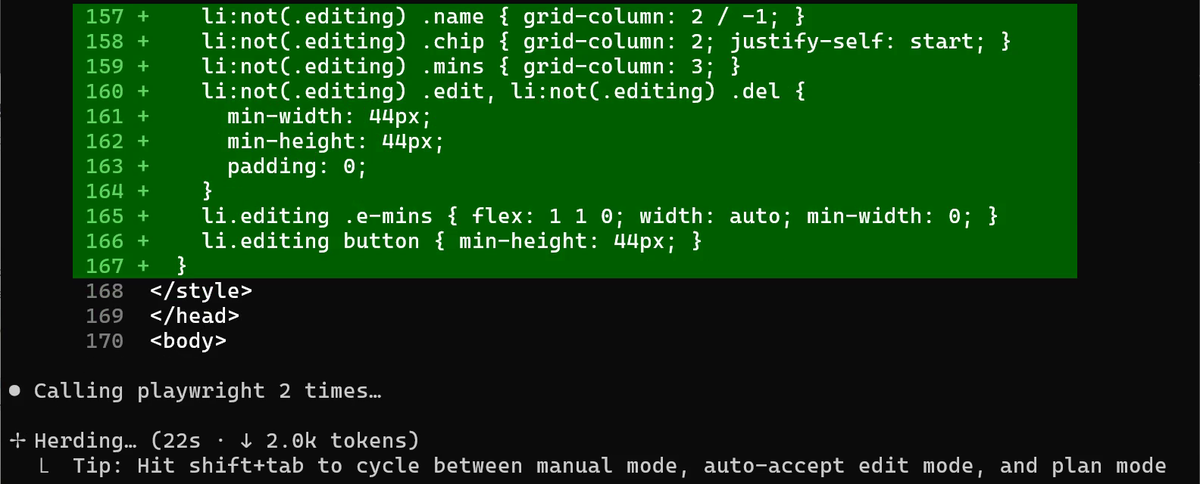
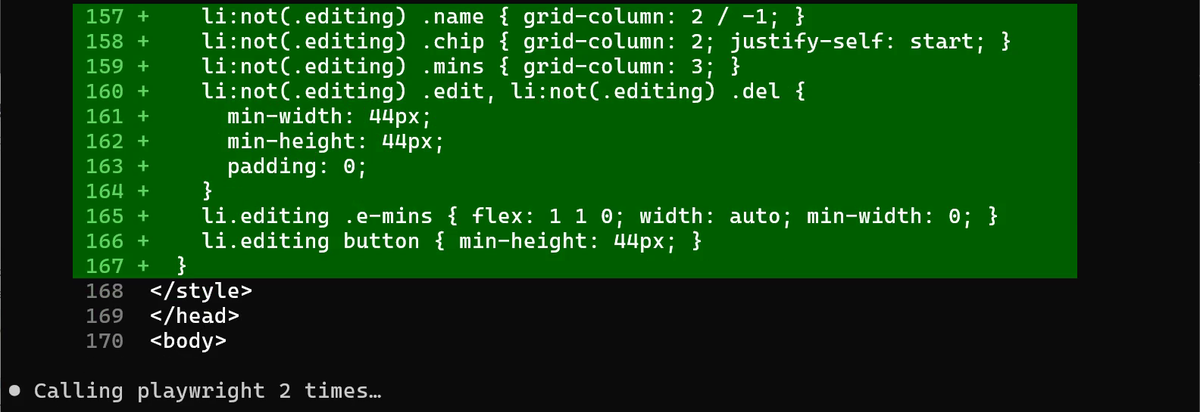
Claude Code chapter 10: episode 10 video, tailor picture, blurred config paths

Changed region(s): [[0.0, 0.0, 0.925, 0.8447], [0.0, 0.8738, 0.9867, 0.9903]]

diff --git a/series/claude-code/chapter10.html b/series/claude-code/chapter10.html
@@ -48,26 +48,38 @@
   </nav>
 
   <main>
+  <section id="video">
+    <div class="video"><iframe src="https://www.youtube-nocookie.com/embed/M-q4KZSGB_w?rel=0" title="Episode 10 · How does Claude Code see my app?"
+      allow="accelerometer; encrypted-media; gyroscope; picture-in-picture; web-share" allowfullscreen loading="lazy"></iframe></div>
+    <p class="video-cap">Prefer to watch? This chapter goes with Episode 10 (5:41). <a href="https://www.youtube.com/watch?v=M-q4KZSGB_w" rel="noopener">Open it on YouTube</a>.</p>
+  </section>
+
   <section id="wall" data-rail="The wall">
     <div class="prereq">
-      <div class="pq"><b>Goes with Episode 10</b>"How does Claude Code see my app?". The video is being made. This page teaches the same steps, at your own pace.</div><div class="pq"><b>In a hurry?</b><a href="#quickref">Jump to the quick reference</a>: every command and key in this chapter, what it does, and when to use it.</div><div class="pq"><b>Every prompt, ready to copy</b><a href="prompts.html#ch10">This chapter's prompts and commands</a>, each with a Copy button. Type them yourself first; copy if you are stuck or behind.</div>
-      <div class="pq"><b>Where you are</b>DevPulse from chapters 1 to 9, with the server running in your second tab. Playwright runs through <code>npx</code>, so you need Node.js.</div>
+      <div class="pq"><b>Goes with Episode 10</b><a href="https://www.youtube.com/watch?v=M-q4KZSGB_w" target="_blank" rel="noopener">"How does Claude Code see my app?"</a>. Watch it just above, or read this page at your own pace. It teaches the same steps.</div><div class="pq"><b>In a hurry?</b><a href="#quickref">Jump to the quick reference</a>: every command and key in this chapter, what it does, and when to use it.</div><div class="pq"><b>Every prompt, ready to copy</b><a href="prompts.html#ch10">This chapter's prompts and commands</a>, each with a Copy button. Type them yourself first; copy if you are stuck or behind.</div>
+      <div class="pq"><b>Where you are</b>DevPulse from chapters 1 to 9, with the server running in your second tab.</div>
+      <div class="pq"><b>Before you start</b>Node.js must be installed on your computer: Playwright's server runs with it. To check, run <code>node --version</code> in PowerShell or Terminal. If it is missing, <a href="https://nodejs.org/en/download" rel="noopener">download Node.js from its official site</a>.</div>
     </div>
     <div class="prose">
       <h2>Claude has never seen your page</h2>
       <p>Most people will open a page like DevPulse on a phone. Does it look right there?</p>
       <p>Claude wrote most of that page. But it only ever read the code. It has never opened the page, and it has never seen it 390 px wide.</p>
+      <p>Think of a tailor who stitches a shirt exactly to your measurements. Every number is right on paper, but only when you try it on do you see that one sleeve hangs too long. Claude has only had our measurements: the code. It has never had a fitting.</p>
     </div>
+    <figure class="cc-shot"><img src="img/chapter10/tailor.svg" alt="A hand-drawn shirt on a hanger with a measuring tape over its collar. One sleeve hangs far below the other, circled in mustard with the note: too long?" loading="lazy">
+      <figcaption>Right on paper is not the same as right on you. Only the fitting shows it.</figcaption></figure>
     <div class="cc-wall">
       <div class="lbl">The question for this chapter</div>
-      <p>How do you let Claude look at the running app, not just the code?</p>
+      <p>How does Claude Code see your app, the way you see it on a phone?</p>
     </div>
   </section>
 
   <section id="add" data-rail="Add a browser">
     <div class="prose">
       <h2>Give Claude a browser</h2>
-      <p>Claude Code talks to outside tools through <b>MCP servers</b>. MCP is an open standard: one server, many tools. Playwright's server gives Claude a real Chrome to drive.</p>
+      <p><b>Playwright</b> is a free tool that drives a real web browser the way a person would: it opens a page, clicks, resizes the window and takes screenshots. Developers use it to test their web apps.</p>
+      <p>Claude Code reaches tools like this through <b>MCP servers</b>. MCP is an open standard: one server, many tools. Playwright's server gives Claude that browser.</p>
+      <p>Nothing else to install beyond Node.js: Playwright's server downloads itself the first time it starts, and it opens the Chrome you already have.</p>
       <p>Add it from your terminal, not inside Claude.</p>
     </div>
     <div class="yousee"><b>Type this into the terminal, in projects\devpulse, one line at a time</b>claude mcp add playwright -- npx -y @playwright/mcp@latest
@@ -90,14 +102,18 @@ claude mcp list</div>
     </div>
     <div class="yousee"><b>Type this into Claude Code, as one line</b>Use the playwright tools to open http://127.0.0.1:8000, resize the window to 390 px wide, take a screenshot and tell me what looks wrong on a phone.</div>
     <figure class="cc-shot"><img src="img/chapter10/browser.png" alt="A Chrome window opened by Playwright on 127.0.0.1:8000/#today, the page narrowed to 390 px, with a grey bar: You are using an unsupported command-line flag." loading="lazy">
-      <figcaption>A new Chrome window opens by itself, the page narrowed to phone width. The grey warning bar about a command-line flag comes from Playwright. You can close it.</figcaption></figure>
+      <figcaption>A new Chrome window opens by itself, the page narrowed to phone width. In our recording it opened partly off the left edge of the screen, so only the right side of the page shows. The grey warning bar about a command-line flag comes from Playwright. You can close it.</figcaption></figure>
     <figure class="cc-shot"><img src="img/chapter10/findings.png" alt="The end of Claude's list: 4, edit and delete icons under 44 px and close together; 5, the Standup panel is a dense block; 6, a 40 px gap above the Standup card. Also a favicon 404. I haven't changed any code." loading="lazy">
-      <figcaption>The end of a list of 6 problems, found in 19 seconds. The first three, above this, were about the add form and the task titles. It changed nothing yet.</figcaption></figure>
+      <figcaption>The last three of Claude's 6 problems, found in 19 seconds: the edit and delete icons, the dense Standup panel and the gap. It changed nothing yet.</figcaption></figure>
+    <div class="prose">
+      <p>That was the fitting. These are things you notice by looking at the page, not by reading its code.</p>
+    </div>
   </section>
 
   <section id="fix" data-rail="Fix and check again">
     <div class="prose">
       <h2>Fix it, then look again</h2>
+      <p>Ask Claude to fix them with a <b>media query</b>: CSS rules that apply only on narrow screens. Then it should look again at 390 px.</p>
     </div>
     <div class="yousee"><b>Type this into Claude Code, as one line</b>Fix those in index.html with a narrow-screen media query, then check again at 390 px with the playwright tools.</div>
     <figure class="cc-shot"><img src="img/chapter10/fix.png" alt="The diff in index.html: rules inside the media query, edit and delete at min-width and min-height 44px. Below it: Calling playwright 2 times." loading="lazy">
@@ -119,8 +135,8 @@ claude mcp list</div>
       <p>Some servers are not programs on your computer. They live on the web. Anthropic runs one for the Claude Code docs. Exit Claude with <code>/exit</code> first.</p>
     </div>
     <div class="yousee"><b>Type this into the terminal</b>claude mcp add --transport http claude-code-docs https://code.claude.com/docs/mcp</div>
-    <figure class="cc-shot"><img src="img/chapter10/docsadd.png" alt="Added HTTP MCP server claude-code-docs with URL https://code.claude.com/docs/mcp to local config. File modified: .claude.json, project devpulse." loading="lazy">
-      <figcaption>An HTTP server: just a web address. Note the last words: <i>to local config</i>. (Our recording uses a separate demo profile, so the path is not the usual one.)</figcaption></figure>
+    <figure class="cc-shot"><img src="img/chapter10/docsadd.png" alt="Added HTTP MCP server claude-code-docs with URL https://code.claude.com/docs/mcp to local config." loading="lazy">
+      <figcaption>An HTTP server: just a web address. Note the last words: <i>to local config</i>.</figcaption></figure>
     <div class="prose">
       <p>Start <code>claude</code> again and ask it about that.</p>
     </div>
@@ -143,7 +159,7 @@ claude mcp list</div>
     <div class="prose">
       <h2>What a server costs</h2>
       <p>Every connected server adds its tool list to Claude's context. Playwright alone has 25 tools. Keep the servers you use, and remove the rest with <code>claude mcp remove name</code>.</p>
-      <p>These servers were built by others. What if DevPulse had its own tools for Claude? That is chapter 11.</p>
+      <p>These servers were built by others. But logging a task still means leaving the terminal and opening the app. In chapter 11, DevPulse gets tools of its own, so Claude can log our work for us.</p>
     </div>
   </section>
 
@@ -157,14 +173,15 @@ claude mcp list</div>
       <div class="lbl">Your homework</div>
       <h3>Let Claude look at a page of your own</h3>
       <p style="font-size:var(--fs-cap);color:var(--slate)"><b>The goal:</b> Claude checks a page by seeing it, not by reading it.</p>
-      <p style="font-size:var(--fs-cap);color:var(--slate);margin-top:8px"><b>The steps:</b> add Playwright to one of your own projects. Ask Claude: <i>Use the playwright tools to open … at 390 px and tell me what looks wrong.</i> Then ask it to fix one problem and check again.</p>
-      <p style="font-size:var(--fs-cap);color:var(--slate);margin-top:8px"><b>Guess first:</b> will Claude find more problems from the screenshot, or from reading the code?</p>
-      <p style="font-size:var(--fs-cap);color:var(--slate);margin-top:10px"><i>One question for you: which server would your team want in project scope?</i></p>
+      <p style="font-size:var(--fs-cap);color:var(--slate);margin-top:8px"><b>The steps:</b> add Playwright to one of your own projects. Ask Claude: <i>Use the playwright tools to open … at 390 px and tell me what looks wrong.</i></p>
+      <p style="font-size:var(--fs-cap);color:var(--slate);margin-top:8px"><b>Guess first:</b> before you send it, write down one problem you expect Claude to find. Did it find it?</p>
+      <p style="font-size:var(--fs-cap);color:var(--slate);margin-top:8px"><b>Then:</b> ask it to fix one problem and look again.</p>
+      <p style="font-size:var(--fs-cap);color:var(--slate);margin-top:10px"><i>One question for you: which outside tool would you most like Claude to use in your own work?</i></p>
     </div>
   </section>
 
   <section class="lwa-refs" id="refs"><div class="prose"><h2>References</h2><p>Where each command on this page comes from. Every screenshot is from our own recording on 29 Oct 2026, Claude Code 2.1.312.</p></div><ol><li><b>Anthropic</b> · <i>Connect Claude Code to tools via MCP</i> <span class="why">claude mcp add, list and get; stdio and HTTP servers; the local, project and user scopes; /mcp.</span> <a href="https://code.claude.com/docs/en/mcp" rel="noopener">https://code.claude.com/docs/en/mcp</a></li><li><b>Microsoft</b> · <i>Playwright MCP</i> <span class="why">The browser server we added: open a page, resize it, take a screenshot.</span> <a href="https://github.com/microsoft/playwright-mcp" rel="noopener">https://github.com/microsoft/playwright-mcp</a></li><li><b>Model Context Protocol</b> · <i>Introduction</i> <span class="why">What MCP is: one open way for an AI app to talk to tools and data.</span> <a href="https://modelcontextprotocol.io/introduction" rel="noopener">https://modelcontextprotocol.io/introduction</a></li><li><b>My own recording</b> · <i>29 Oct 2026, Windows 11</i> <span class="why">Claude found 6 phone problems in 19 seconds, fixed them in 32, and the docs server named the scope we used.</span></li></ol></section>
-  <section class="keep" aria-label="Follow along"><p class="follow">New chapters and episodes come out every week. Follow along on <a href="https://www.youtube.com/@learn-ai-by-building" rel="noopener">YouTube</a> or the <a href="https://whatsapp.com/channel/0029VbBmUYHADTOID6uURl2U" rel="noopener">WhatsApp channel</a>.</p></section>
+  <section class="keep" aria-label="Follow along"><p class="follow">New chapters and episodes come out every week. Follow along on <a href="https://www.youtube.com/@learn-ai-by-building" rel="noopener">YouTube</a> or the <a href="https://whatsapp.com/channel/0029VbBmUYHADTOID6uURl2U" rel="noopener">WhatsApp channel</a>. Questions? Ask under the video on YouTube; I read every comment.</p></section>
   <div class="lwa-chapnav"><a href="chapter9.html"><span class="k">← Previous</span><span class="t">Chapter 9 · A code reviewer of our own</span></a><button type="button" class="lwa-complete" data-lwa-complete><span class="k">Progress</span><span class="t">Mark this chapter complete</span></button><a href="chapter11.html"><span class="k">Next →</span><span class="t">Chapter 11 · DevPulse tools for Claude</span></a></div>
   </main>
 </div>

diff --git a/series/claude-code/index.html b/series/claude-code/index.html
@@ -78,7 +78,7 @@
       <div class="p-card"><div class="ph"><span class="pn">Chapter 9</span><span class="pt"><a href="chapter9.html">A code reviewer of our own</a></span></div>
         <p class="pd">Subagents: Explore, then a code-reviewer of our own, and a fix with a test. <a href="https://www.youtube.com/watch?v=2tsK3JxVsaM" rel="noopener">Watch Episode 9 (5:08)</a></p></div>
       <div class="p-card"><div class="ph"><span class="pn">Chapter 10</span><span class="pt"><a href="chapter10.html">Claude sees the app</a></span></div>
-        <p class="pd">MCP: Playwright lets Claude see the page at phone width; server scopes.</p></div>
+        <p class="pd">MCP: Playwright lets Claude see the page at phone width; server scopes. <a href="https://www.youtube.com/watch?v=M-q4KZSGB_w" rel="noopener">Watch Episode 10 (5:41)</a></p></div>
       <div class="p-card"><div class="ph"><span class="pn">Chapter 11</span><span class="pt"><a href="chapter11.html">DevPulse tools for Claude</a></span></div>
         <p class="pd">A plugin builds a DevPulse MCP server, so Claude logs and sums tasks directly.</p></div>
       <div class="p-card"><div class="ph"><span class="pn">Chapter 12</span><span class="pt"><a href="chapter12.html">A bug scan in parallel</a></span></div>
